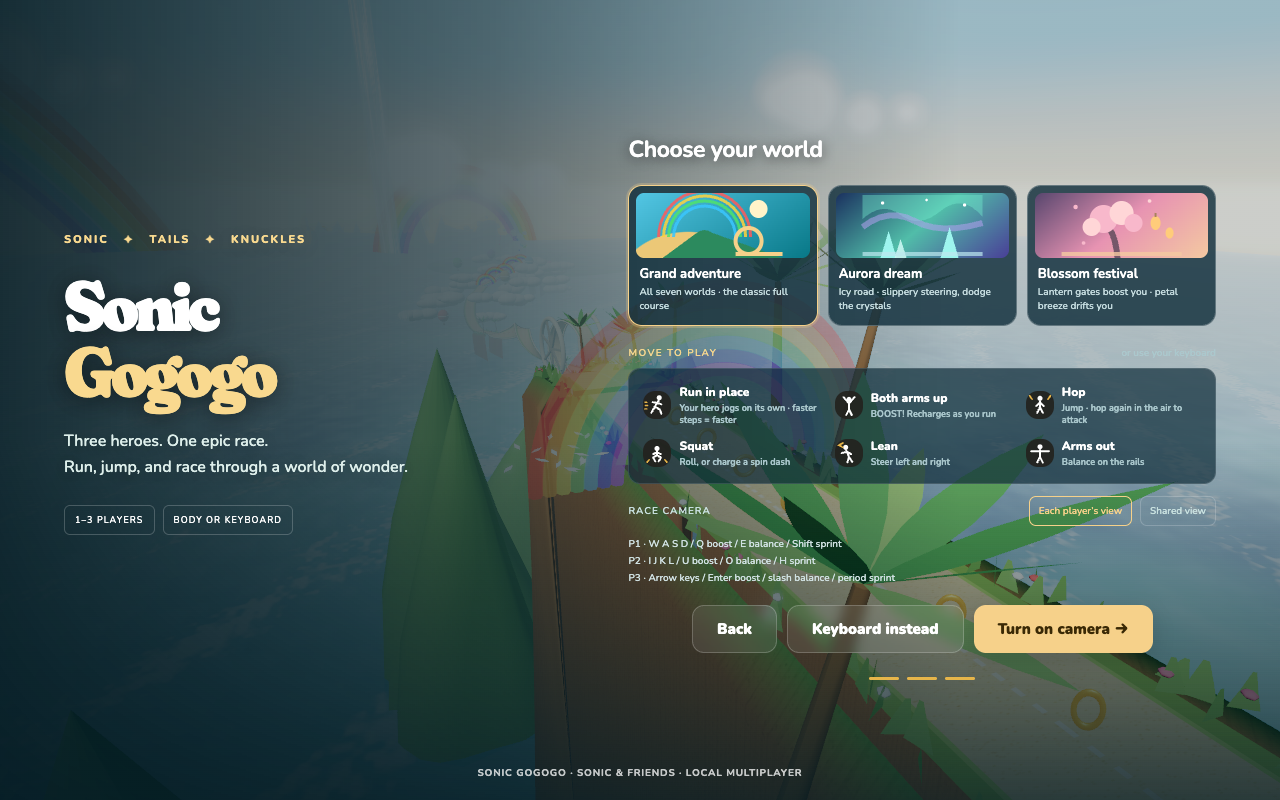
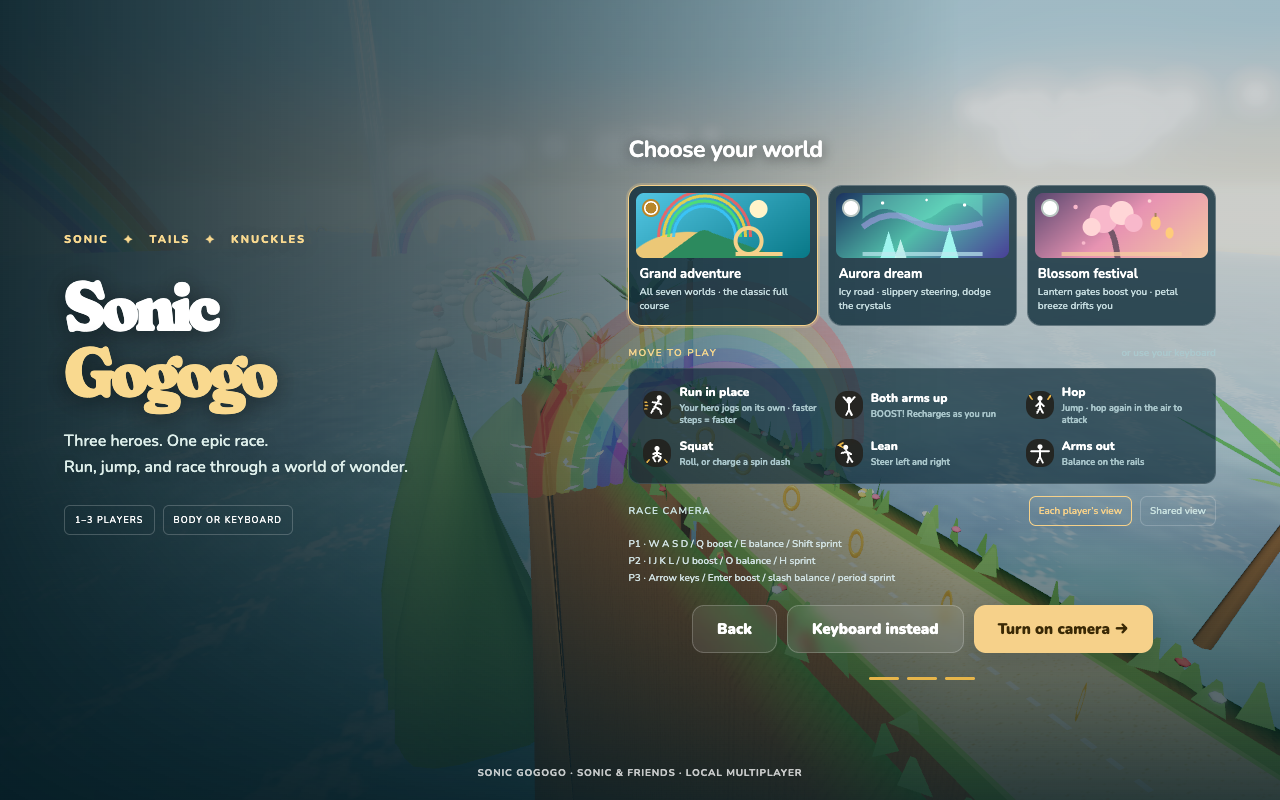
ui: radio dots on world cards, matching hero select
Grand adventure was already the default; the dot now makes the
pre-selection visible so users know they can proceed without tapping.

diff --git a/public/index.html b/public/index.html
@@ -128,7 +128,9 @@ button:focus-visible{outline:3px solid var(--gold);outline-offset:3px}
 .mode-card[data-mode="3"] canvas:first-child{grid-column:1/-1}.mode-number{font-size:10px;letter-spacing:.2em;color:#5b847b;margin-bottom:8px}.card:hover{transform:translateY(-7px);border-color:#ffd77d}.card[aria-pressed="true"]{border-color:#e5b252;box-shadow:0 0 0 2px #e5b25266,0 16px 40px #001e3440}.menu-note{font-size:12px;color:#d4e7df;text-align:center;margin:22px 0 0}.stepper{margin-top:24px}.stepper li{height:3px;width:30px}.readlink{font-size:10px;letter-spacing:.08em;bottom:20px}.btn{font-size:15px;padding:13px 24px;border-radius:12px;background:#f6d18a;box-shadow:0 7px 22px #00151b22}.btn.quiet{border:1px solid #ffffff33;background:#ffffff14}.row{margin-top:18px;gap:10px}.card.ninja-card .figure{height:212px;margin:-2px -2px 10px}.card.ninja-card canvas{width:158px;height:205px}.card.ninja-card .name{font-size:22px}
 .ninja-card::before{content:"";position:absolute;left:13px;top:13px;width:15px;height:15px;border-radius:50%;border:2px solid #b9c6c2;background:#fff}
 .ninja-card[aria-pressed="true"]::before{border-color:var(--gold-deep);background:radial-gradient(circle,var(--gold-deep) 0 52%,#fff 58%)}
-#start[data-step="3"] .menu-head{top:29%}#start[data-step="3"] .title{font-size:clamp(45px,5.5vw,80px)}.destinations{display:grid;grid-template-columns:repeat(3,1fr);gap:10px}.destinations button{background:#102e3bcf;color:#fff;border:1px solid #ffffff40;border-radius:14px;text-align:left;padding:7px 7px 12px;overflow:hidden}.destinations button[aria-pressed="true"]{border-color:#f6d18a;box-shadow:0 0 0 2px #f6d18a40}.destination-art{display:block;height:65px;border-radius:8px;overflow:hidden}.destination-art svg{width:100%;height:100%;display:block}.tour{background:radial-gradient(ellipse at 30% 140%,#ecc877 40%,transparent 41%),linear-gradient(145deg,#53c6e4,#087887)}.aurora{background:linear-gradient(140deg,#1b315f,#51bda9,#493f97)}.blossom{background:linear-gradient(140deg,#58466e,#e793b2,#f4c9a1)}.destinations b,.destinations small{display:block;padding:7px 3px 0}.destinations b{font-size:13px}.destinations small{font-size:10px;color:#c5dcdf;padding-top:2px}.control-label{color:#f4d68e;font-size:10px;letter-spacing:.14em;margin:20px 0 8px}.control-label span{float:right;letter-spacing:0;color:#abc8cd}.moves{grid-template-columns:repeat(3,1fr);gap:2px 16px;background:#0d2a37b0;border:1px solid #ffffff1f;border-radius:12px;padding:10px 14px}.move{padding:5px 0;border-radius:0;background:none;cursor:default;gap:8px}.move svg{width:28px;height:28px}.move b{font:800 12px Nunito,sans-serif;color:#fff}.move span{font-size:9px;line-height:1.35;color:#a9c6cb}#keyboardGuide{font-size:10px;color:#d0e1e2;line-height:1.7;margin-top:10px}
+#start[data-step="3"] .menu-head{top:29%}#start[data-step="3"] .title{font-size:clamp(45px,5.5vw,80px)}.destinations{display:grid;grid-template-columns:repeat(3,1fr);gap:10px}.destinations button{position:relative;background:#102e3bcf;color:#fff;border:1px solid #ffffff40;border-radius:14px;text-align:left;padding:7px 7px 12px;overflow:hidden}
+.destinations button::before{content:"";position:absolute;left:13px;top:13px;width:14px;height:14px;border-radius:50%;border:2px solid #b9c6c2;background:#fff;z-index:1}
+.destinations button[aria-pressed="true"]::before{border-color:var(--gold-deep);background:radial-gradient(circle,var(--gold-deep) 0 52%,#fff 58%)}.destinations button[aria-pressed="true"]{border-color:#f6d18a;box-shadow:0 0 0 2px #f6d18a40}.destination-art{display:block;height:65px;border-radius:8px;overflow:hidden}.destination-art svg{width:100%;height:100%;display:block}.tour{background:radial-gradient(ellipse at 30% 140%,#ecc877 40%,transparent 41%),linear-gradient(145deg,#53c6e4,#087887)}.aurora{background:linear-gradient(140deg,#1b315f,#51bda9,#493f97)}.blossom{background:linear-gradient(140deg,#58466e,#e793b2,#f4c9a1)}.destinations b,.destinations small{display:block;padding:7px 3px 0}.destinations b{font-size:13px}.destinations small{font-size:10px;color:#c5dcdf;padding-top:2px}.control-label{color:#f4d68e;font-size:10px;letter-spacing:.14em;margin:20px 0 8px}.control-label span{float:right;letter-spacing:0;color:#abc8cd}.moves{grid-template-columns:repeat(3,1fr);gap:2px 16px;background:#0d2a37b0;border:1px solid #ffffff1f;border-radius:12px;padding:10px 14px}.move{padding:5px 0;border-radius:0;background:none;cursor:default;gap:8px}.move svg{width:28px;height:28px}.move b{font:800 12px Nunito,sans-serif;color:#fff}.move span{font-size:9px;line-height:1.35;color:#a9c6cb}#keyboardGuide{font-size:10px;color:#d0e1e2;line-height:1.7;margin-top:10px}
 .game-controls{position:fixed;right:24px;top:82px;z-index:20}.game-controls button{color:#fff;background:#102d3bba;padding:9px 14px;border:1px solid #ffffff30;border-radius:10px;font-size:12px}#pausePanel{z-index:30;background:#092535bb;backdrop-filter:blur(12px)}#pausePanel .eyebrow{color:#8fb5b0;margin-bottom:18px}#pausePanel .quiet{color:#d9e6e4}.hud-top{gap:12px}.rings,.timer{border:1px solid #ffffff30;background:#0c293cc9;border-radius:14px;font-family:Nunito,sans-serif;font-size:22px}.rings.two{font-size:14px}.rings.two em{padding:3px 7px}.course-status{position:absolute;left:50%;transform:translateX(-50%);width:210px;text-align:center;background:#0c293cc9;border:1px solid #ffffff25;color:#fff;padding:9px 14px;border-radius:12px;font-size:12px}.course-line{height:3px;background:#ffffff30;margin:6px 0 3px;border-radius:2px;overflow:hidden}.course-line i{display:block;height:100%;background:#f6d18a;width:0}.course-status small{font-size:9px;color:#c8e0e6}.speedo{padding:16px;background:#0c293ccb;backdrop-filter:blur(8px);border:1px solid #ffffff25;border-radius:16px;width:230px}.speedo .bar{height:6px}.speedo label{font-size:11px}.speedo .boost{height:3px}.speedo .row2{margin-top:13px}.prompt{top:110px}.prompt b{font:900 28px Nunito,sans-serif}.prompt svg{width:42px;height:42px}.hint{bottom:24px;font-size:12px;max-width:40vw;text-align:center;white-space:normal}.result{width:min(900px,94vw);max-width:100%}.col{box-shadow:0 12px 34px rgba(0,20,35,.3)}.stat{box-shadow:0 12px 34px rgba(0,20,35,.3)}.col{min-width:180px}.rings.two em.tails{box-shadow:inset 0 0 0 2px #55c7e4}
 @media(max-width:1050px){.menu-head{width:34%;top:25%}.panel{width:60%}.title{font-size:7vw}.hero-copy{font-size:13px}.hero-badges{flex-wrap:wrap}.card .name{font-size:16px}.card canvas{width:90px}.course-status{top:60px;width:160px}.prompt{top:140px}}
 @media(max-width:720px){#start{display:block;padding:30px 20px 65px;background:linear-gradient(180deg,#082a36e0,#082a3670 60%,#082a36e8)}.menu-head,#start[data-step="3"] .menu-head{position:relative;width:100%;top:auto;left:auto;margin-bottom:26px}.eyebrow{font-size:9px;margin-bottom:16px}.title,#start[data-step="3"] .title{font-size:52px}.title br{display:none}.title em{display:block}.hero-copy{margin:12px 0;font-size:13px}.hero-badges{display:none}.panel{width:100%}.subtitle{font-size:20px}.cards{gap:8px}.card{width:auto;padding:10px 10px 14px;border-radius:14px}.card .figure{height:110px;margin-bottom:6px}.card canvas{width:75px;height:110px}.mode-card .figure{height:150px}.mode-card canvas{width:46%}.mode-card[data-mode="3"] canvas{height:72px}.card .name{font-size:14px}.card .trait{font-size:10px}.readlink{position:relative;bottom:auto;margin-top:24px;line-height:1.6}.card.ninja-card .figure{height:145px}.card.ninja-card canvas{height:150px}.menu-note{font-size:10px}.card.ninja-card .name{font-size:18px}.hud-top{left:10px;right:10px;top:10px}.rings.two{font-size:10px;gap:4px;padding:8px}.rings .coin{width:22px;height:22px;border-width:5px}.rings.two em{padding:3px}.timer{font-size:16px;padding:8px}.course-status{top:45px}.speedo{width:150px;right:10px;bottom:10px;padding:10px}.pip{left:10px;bottom:10px;width:130px}.hint{bottom:165px;max-width:90vw;width:max-content;font-size:10px}.game-controls{right:10px;top:100px}.prompt b{font-size:20px}.prompt{top:150px}.toast{font-size:25px;white-space:normal;text-align:center;width:90vw}.setup-text p{font-size:14px}.screen{overflow:auto;padding:18px}.cam-frame{max-width:320px}.setup-wrap{gap:14px}}

diff --git a/src/1_head.html b/src/1_head.html
@@ -128,7 +128,9 @@ button:focus-visible{outline:3px solid var(--gold);outline-offset:3px}
 .mode-card[data-mode="3"] canvas:first-child{grid-column:1/-1}.mode-number{font-size:10px;letter-spacing:.2em;color:#5b847b;margin-bottom:8px}.card:hover{transform:translateY(-7px);border-color:#ffd77d}.card[aria-pressed="true"]{border-color:#e5b252;box-shadow:0 0 0 2px #e5b25266,0 16px 40px #001e3440}.menu-note{font-size:12px;color:#d4e7df;text-align:center;margin:22px 0 0}.stepper{margin-top:24px}.stepper li{height:3px;width:30px}.readlink{font-size:10px;letter-spacing:.08em;bottom:20px}.btn{font-size:15px;padding:13px 24px;border-radius:12px;background:#f6d18a;box-shadow:0 7px 22px #00151b22}.btn.quiet{border:1px solid #ffffff33;background:#ffffff14}.row{margin-top:18px;gap:10px}.card.ninja-card .figure{height:212px;margin:-2px -2px 10px}.card.ninja-card canvas{width:158px;height:205px}.card.ninja-card .name{font-size:22px}
 .ninja-card::before{content:"";position:absolute;left:13px;top:13px;width:15px;height:15px;border-radius:50%;border:2px solid #b9c6c2;background:#fff}
 .ninja-card[aria-pressed="true"]::before{border-color:var(--gold-deep);background:radial-gradient(circle,var(--gold-deep) 0 52%,#fff 58%)}
-#start[data-step="3"] .menu-head{top:29%}#start[data-step="3"] .title{font-size:clamp(45px,5.5vw,80px)}.destinations{display:grid;grid-template-columns:repeat(3,1fr);gap:10px}.destinations button{background:#102e3bcf;color:#fff;border:1px solid #ffffff40;border-radius:14px;text-align:left;padding:7px 7px 12px;overflow:hidden}.destinations button[aria-pressed="true"]{border-color:#f6d18a;box-shadow:0 0 0 2px #f6d18a40}.destination-art{display:block;height:65px;border-radius:8px;overflow:hidden}.destination-art svg{width:100%;height:100%;display:block}.tour{background:radial-gradient(ellipse at 30% 140%,#ecc877 40%,transparent 41%),linear-gradient(145deg,#53c6e4,#087887)}.aurora{background:linear-gradient(140deg,#1b315f,#51bda9,#493f97)}.blossom{background:linear-gradient(140deg,#58466e,#e793b2,#f4c9a1)}.destinations b,.destinations small{display:block;padding:7px 3px 0}.destinations b{font-size:13px}.destinations small{font-size:10px;color:#c5dcdf;padding-top:2px}.control-label{color:#f4d68e;font-size:10px;letter-spacing:.14em;margin:20px 0 8px}.control-label span{float:right;letter-spacing:0;color:#abc8cd}.moves{grid-template-columns:repeat(3,1fr);gap:2px 16px;background:#0d2a37b0;border:1px solid #ffffff1f;border-radius:12px;padding:10px 14px}.move{padding:5px 0;border-radius:0;background:none;cursor:default;gap:8px}.move svg{width:28px;height:28px}.move b{font:800 12px Nunito,sans-serif;color:#fff}.move span{font-size:9px;line-height:1.35;color:#a9c6cb}#keyboardGuide{font-size:10px;color:#d0e1e2;line-height:1.7;margin-top:10px}
+#start[data-step="3"] .menu-head{top:29%}#start[data-step="3"] .title{font-size:clamp(45px,5.5vw,80px)}.destinations{display:grid;grid-template-columns:repeat(3,1fr);gap:10px}.destinations button{position:relative;background:#102e3bcf;color:#fff;border:1px solid #ffffff40;border-radius:14px;text-align:left;padding:7px 7px 12px;overflow:hidden}
+.destinations button::before{content:"";position:absolute;left:13px;top:13px;width:14px;height:14px;border-radius:50%;border:2px solid #b9c6c2;background:#fff;z-index:1}
+.destinations button[aria-pressed="true"]::before{border-color:var(--gold-deep);background:radial-gradient(circle,var(--gold-deep) 0 52%,#fff 58%)}.destinations button[aria-pressed="true"]{border-color:#f6d18a;box-shadow:0 0 0 2px #f6d18a40}.destination-art{display:block;height:65px;border-radius:8px;overflow:hidden}.destination-art svg{width:100%;height:100%;display:block}.tour{background:radial-gradient(ellipse at 30% 140%,#ecc877 40%,transparent 41%),linear-gradient(145deg,#53c6e4,#087887)}.aurora{background:linear-gradient(140deg,#1b315f,#51bda9,#493f97)}.blossom{background:linear-gradient(140deg,#58466e,#e793b2,#f4c9a1)}.destinations b,.destinations small{display:block;padding:7px 3px 0}.destinations b{font-size:13px}.destinations small{font-size:10px;color:#c5dcdf;padding-top:2px}.control-label{color:#f4d68e;font-size:10px;letter-spacing:.14em;margin:20px 0 8px}.control-label span{float:right;letter-spacing:0;color:#abc8cd}.moves{grid-template-columns:repeat(3,1fr);gap:2px 16px;background:#0d2a37b0;border:1px solid #ffffff1f;border-radius:12px;padding:10px 14px}.move{padding:5px 0;border-radius:0;background:none;cursor:default;gap:8px}.move svg{width:28px;height:28px}.move b{font:800 12px Nunito,sans-serif;color:#fff}.move span{font-size:9px;line-height:1.35;color:#a9c6cb}#keyboardGuide{font-size:10px;color:#d0e1e2;line-height:1.7;margin-top:10px}
 .game-controls{position:fixed;right:24px;top:82px;z-index:20}.game-controls button{color:#fff;background:#102d3bba;padding:9px 14px;border:1px solid #ffffff30;border-radius:10px;font-size:12px}#pausePanel{z-index:30;background:#092535bb;backdrop-filter:blur(12px)}#pausePanel .eyebrow{color:#8fb5b0;margin-bottom:18px}#pausePanel .quiet{color:#d9e6e4}.hud-top{gap:12px}.rings,.timer{border:1px solid #ffffff30;background:#0c293cc9;border-radius:14px;font-family:Nunito,sans-serif;font-size:22px}.rings.two{font-size:14px}.rings.two em{padding:3px 7px}.course-status{position:absolute;left:50%;transform:translateX(-50%);width:210px;text-align:center;background:#0c293cc9;border:1px solid #ffffff25;color:#fff;padding:9px 14px;border-radius:12px;font-size:12px}.course-line{height:3px;background:#ffffff30;margin:6px 0 3px;border-radius:2px;overflow:hidden}.course-line i{display:block;height:100%;background:#f6d18a;width:0}.course-status small{font-size:9px;color:#c8e0e6}.speedo{padding:16px;background:#0c293ccb;backdrop-filter:blur(8px);border:1px solid #ffffff25;border-radius:16px;width:230px}.speedo .bar{height:6px}.speedo label{font-size:11px}.speedo .boost{height:3px}.speedo .row2{margin-top:13px}.prompt{top:110px}.prompt b{font:900 28px Nunito,sans-serif}.prompt svg{width:42px;height:42px}.hint{bottom:24px;font-size:12px;max-width:40vw;text-align:center;white-space:normal}.result{width:min(900px,94vw);max-width:100%}.col{box-shadow:0 12px 34px rgba(0,20,35,.3)}.stat{box-shadow:0 12px 34px rgba(0,20,35,.3)}.col{min-width:180px}.rings.two em.tails{box-shadow:inset 0 0 0 2px #55c7e4}
 @media(max-width:1050px){.menu-head{width:34%;top:25%}.panel{width:60%}.title{font-size:7vw}.hero-copy{font-size:13px}.hero-badges{flex-wrap:wrap}.card .name{font-size:16px}.card canvas{width:90px}.course-status{top:60px;width:160px}.prompt{top:140px}}
 @media(max-width:720px){#start{display:block;padding:30px 20px 65px;background:linear-gradient(180deg,#082a36e0,#082a3670 60%,#082a36e8)}.menu-head,#start[data-step="3"] .menu-head{position:relative;width:100%;top:auto;left:auto;margin-bottom:26px}.eyebrow{font-size:9px;margin-bottom:16px}.title,#start[data-step="3"] .title{font-size:52px}.title br{display:none}.title em{display:block}.hero-copy{margin:12px 0;font-size:13px}.hero-badges{display:none}.panel{width:100%}.subtitle{font-size:20px}.cards{gap:8px}.card{width:auto;padding:10px 10px 14px;border-radius:14px}.card .figure{height:110px;margin-bottom:6px}.card canvas{width:75px;height:110px}.mode-card .figure{height:150px}.mode-card canvas{width:46%}.mode-card[data-mode="3"] canvas{height:72px}.card .name{font-size:14px}.card .trait{font-size:10px}.readlink{position:relative;bottom:auto;margin-top:24px;line-height:1.6}.card.ninja-card .figure{height:145px}.card.ninja-card canvas{height:150px}.menu-note{font-size:10px}.card.ninja-card .name{font-size:18px}.hud-top{left:10px;right:10px;top:10px}.rings.two{font-size:10px;gap:4px;padding:8px}.rings .coin{width:22px;height:22px;border-width:5px}.rings.two em{padding:3px}.timer{font-size:16px;padding:8px}.course-status{top:45px}.speedo{width:150px;right:10px;bottom:10px;padding:10px}.pip{left:10px;bottom:10px;width:130px}.hint{bottom:165px;max-width:90vw;width:max-content;font-size:10px}.game-controls{right:10px;top:100px}.prompt b{font-size:20px}.prompt{top:150px}.toast{font-size:25px;white-space:normal;text-align:center;width:90vw}.setup-text p{font-size:14px}.screen{overflow:auto;padding:18px}.cam-frame{max-width:320px}.setup-wrap{gap:14px}}
